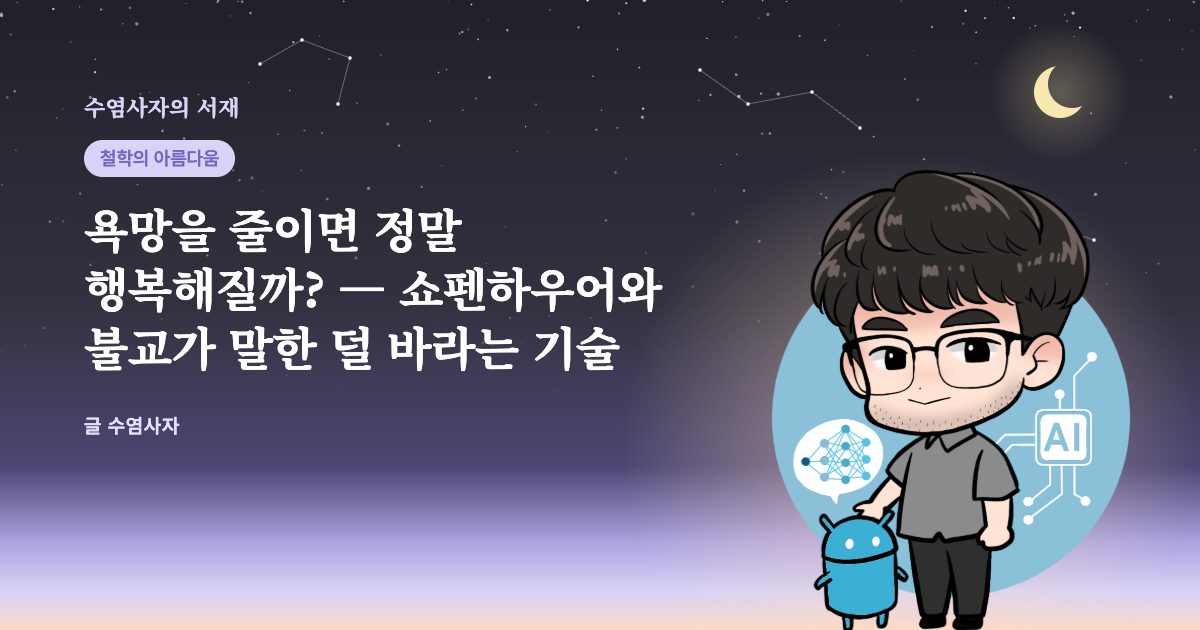
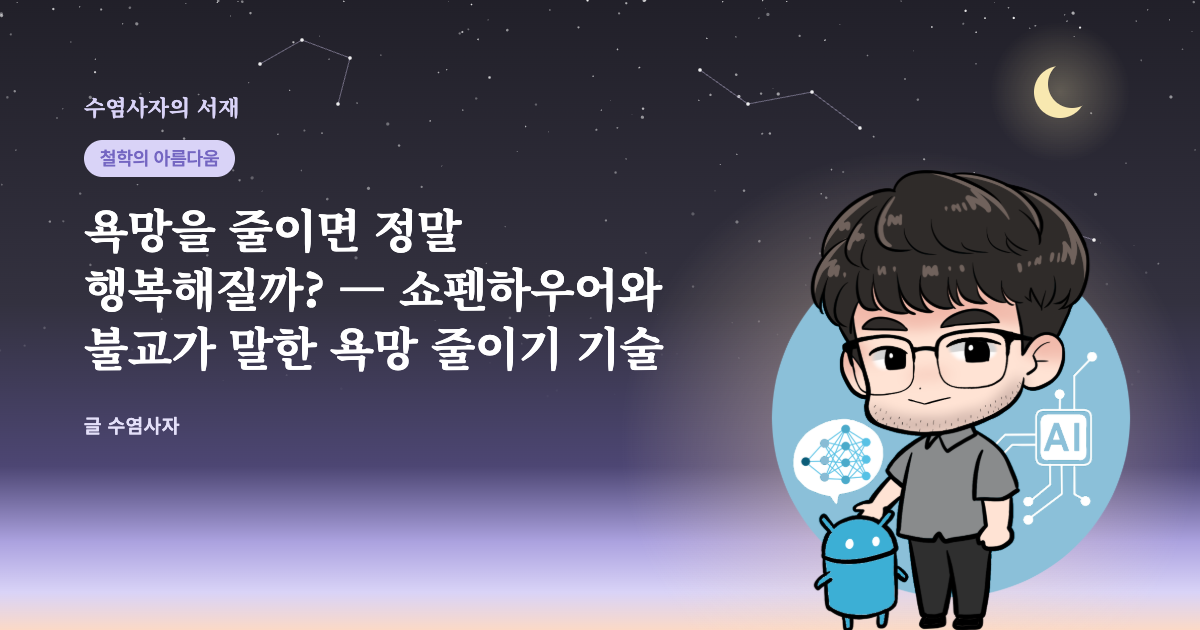
post: 쇼펜하우어 글 — 사용자 문장 다듬기와 제목 변경, 오타 교정
Claude-Session: https://claude.ai/code/session_01J36DQQsi1iZDy94NMGj8jH

Changed region(s): [[0.2775, 0.5127, 0.555, 0.6032]]

diff --git a/posts/schopenhauer-desire/post.html b/posts/schopenhauer-desire/post.html
@@ -52,18 +52,18 @@
 </head>
 <body>
 <article>
-<h1>욕망을 줄이면 정말 행복해질까? — 쇼펜하우어와 불교가 말한 덜 바라는 기술</h1>
+<h1>욕망을 줄이면 정말 행복해질까? — 쇼펜하우어와 불교가 말한 욕망 줄이기 기술</h1>
 <div class="meta">2026-11-07 · 약 10분 분량 · 글 수염사자</div>
 
 <!-- 1. 도입 -->
-<p>몇 달을 벼르던 물건이 드디어 집에 도착합니다. 상자를 뜯는 날은 기분이 좋습니다. 그런데 두어 주가 지나면 그 물건은 그냥 집에 있는 물건 가운데 하나가 됩니다. 그리고 어느 저녁, 다른 것을 검색하고 있는 자신을 발견합니다. 승진도, 이사도, 오래 바라던 합격도 비슷합니다. 기쁨은 분명히 있었는데 생각보다 빨리 식고, 그 자리에 다음 목표가 들어섭니다.</p>
-<p>이 경험에는 오래전부터 두 가지 답이 있었습니다. 하나는 "그러니 더 큰 것을 바라라"이고, 다른 하나는 "그러니 덜 바라라"입니다. 19세기 독일의 철학자 쇼펜하우어와 초기 불교 경전은 둘째 답을 골랐습니다. 그런데 결정적으로 — <strong>두 전통은 "얻어도 만족이 오지 않는다"는 진단에서 거의 같은 문장을 썼지만, 덜 바라는 일이 무엇을 치르게 하는지는 아주 다르게 말했습니다.</strong></p>
-<p>"욕심을 줄이면 행복해진다"는 말을 들을 때마다 반쯤 수긍하고 반쯤 미심쩍었던 분들께 결론부터 말씀드리면, 그 말은 절반은 원문으로 확인되고, 절반은 최근 연구가 조건을 달았습니다. 철학에서는 이 문제를 쇼펜하우어의 <strong>의지(Wille)</strong>와 불교의 <strong>갈애(渴愛)</strong>라는 이름으로 다룹니다.</p>
+<p>몇 달을 벼르던 물건이 드디어 집에 도착합니다. 택배를 뜯는 날은 일단 기분이 좋습니다. 그런데 1~2주가 지나면 그 물건은 그냥 집에 있는 물건 중 하나가 되죠. 그러다 어느새, 또 새 아이템을 검색하고 있는 자신을 발견합니다. 승진도, 이사도, 오래 바라던 합격도 비슷합니다. 분명히 즐거움이 있었는데 생각보다 빨리 사그라들고, 곧 다른 즐거움을 찾게 됩니다.</p>
+<p>이 경험에는 오래전부터 두 가지 해결책이 있었습니다. 하나는 "더 큰 것을 바랄 것"이고, 다른 하나는 "덜 바랄 것"입니다. 19세기 독일의 철학자 쇼펜하우어와 초기 불교 경전은 둘째 답을 골랐습니다. 그런데 결정적으로 <strong>"얻어도 만족이 오지 않는다"는 생각은 똑같지만, 덜 바라는 일이 무엇을 대가로 치르게 하는지는 차이가 있습니다.</strong></p>
+<p>"욕심을 줄이면 행복해진다"는 말을 들을 때마다 반쯤 수긍하고 반쯤 미심쩍었던 분들께 고전과 최신 연구로 답을 드리고자 합니다. 우선, 철학에서는 이 문제를 쇼펜하우어의 <strong>의지(Wille)</strong>와 불교의 <strong>갈애(渴愛)</strong>라는 이름으로 다룹니다.</p>
 
 <!-- 2. 쇼펜하우어의 진단 -->
 <h2>원해서 얻었는데 왜 허전한가 — 진자와 밑 빠진 체</h2>
-<p>아르투어 쇼펜하우어(1788~1860)는 서른 살에 완성한 『의지와 표상으로서의 세계』에서 이 허전함을 하나의 구조로 그렸습니다. 그가 보기에 모든 원함은 결핍에서 나옵니다. 무언가가 없어서, 모자라서, 그래서 괴로워서 원합니다. 원문은 이렇게 말합니다. "모든 의욕은 결핍에서, 따라서 모자람에서, 따라서 고통에서 생겨난다"<sup class="fn"><a id="cite-1" href="#ref-1">[1]</a></sup>. 이 책은 1818년 3월에 완성되어 그해 12월에 출간됐습니다<sup class="fn"><a id="cite-2" href="#ref-2">[2]</a></sup>.</p>
-<p>그런데 얻으면 끝나야 할 고통이 끝나지 않습니다. 쇼펜하우어는 그 이유를 두 가지로 댑니다. 첫째, 채워진 소원은 곧바로 새 소원에게 자리를 내줍니다. 어떤 대상도 지속되는 만족을 주지 못하고, 거지에게 던져진 동냥처럼 오늘 하루를 버티게 해서 내일의 비참을 연장할 뿐이라는 것입니다<sup class="fn"><a id="cite-1b" href="#ref-1">[1]</a></sup>. 둘째가 더 무섭습니다. 원하는 것이 너무 쉽게 채워져 원할 것이 없어지면, 그 자리에 공허와 지루함이 들어옵니다. 그래서 삶은 "고통과 권태 사이를 진자처럼 왔다 갔다" 합니다<sup class="fn"><a id="cite-1c" href="#ref-1">[1]</a></sup>.</p>
+<p>아르투어 쇼펜하우어(1788~1860)는 그가 서른 살에 완성한 위대한 작품, 『의지와 표상으로서의 세계』에서 이 허전함을 하나의 틀로 나타냈습니다. 그가 보기에 모든 원함은 결핍에서 나옵니다. 무언가가 없어서, 모자라서, 그래서 괴로워서 원합니다. 그는 이렇게 말합니다. "모든 의욕은 결핍에서, 따라서 모자람에서, 따라서 고통에서 생겨난다"<sup class="fn"><a id="cite-1" href="#ref-1">[1]</a></sup>. (참고로 이 책은 1818년 3월에 완성되어 그해 12월에 출간됐습니다<sup class="fn"><a id="cite-2" href="#ref-2">[2]</a></sup>.)</p>
+<p>그런데 말입니다, 얻으면 끝나야 할 고통이 여전히 끝나지 않습니다. 쇼펜하우어는 그 이유를 두 가지로 봅니다. 첫째, 소원을 이뤄도 곧바로 새 소원이 생깁니다. 어떤 대상도 지속되는 만족을 주지 못하고, 거지에게 던져진 동냥처럼 오늘 하루를 버티게 해서 내일의 비참을 연장할 뿐이라는 것입니다<sup class="fn"><a id="cite-1b" href="#ref-1">[1]</a></sup>. 둘째는 더 통렬합니다. 원하는 것이 너무 쉽게 채워져 더 바랄 것이 없어지면, 공허와 지루함이 치고 들어옵니다. 그래서 삶은 "고통과 권태 사이를 진자처럼 왔다 갔다" 합니다<sup class="fn"><a id="cite-1c" href="#ref-1">[1]</a></sup>.</p>
 <figure>
 <svg xmlns="http://www.w3.org/2000/svg" viewBox="0 0 680 440" width="100%" role="img" aria-labelledby="t-1 d-1" font-family="'Pretendard','Noto Sans KR','Noto Sans CJK KR','Apple SD Gothic Neo',sans-serif">
 <title id="t-1">쇼펜하우어가 본 욕망의 순환</title>
@@ -90,21 +90,21 @@
 <text x="562" y="388" text-anchor="middle" font-size="17" font-weight="700" fill="#C06A45">권태</text>
 <text x="32" y="424" font-size="12" fill="#6E6B7B">자료: 『의지와 표상으로서의 세계』 1권 §38·§57[1]로 재구성</text>
 </svg>
-<figcaption>쇼펜하우어가 본 욕망은 원하고, 애쓰고, 얻고, 식어서 다시 원하는 고리이며, 원할 것이 없어지는 순간에는 고리 밖의 권태로 빠집니다. 고리에는 마지막 칸이 없습니다.</figcaption>
+<figcaption>쇼펜하우어가 본 욕망은 원하고, 애쓰고, 얻고, 식어서 다시 원하는 순환 고리이며, 원할 것이 없어지는 순간에는 고리 밖의 권태로 빠집니다.</figcaption>
 </figure>
 <p>그는 이 순환을 그리스 신화의 다나이데스에 빗댑니다. 밑 빠진 체로 물을 긷는 자매들처럼, 우리는 만족이 매번 기대를 저버리는 것을 보면서도 서둘러 다음 욕망으로 달려간다는 것입니다<sup class="fn"><a id="cite-1d" href="#ref-1">[1]</a></sup>. 여기서 그의 유명한 결론이 나옵니다. 행복은 적극적인 무엇이 아니라 소극적인 것, 곧 어떤 고통이나 결핍에서 잠시 풀려난 상태일 뿐이며, 그 뒤에는 새 고통 아니면 권태가 따라온다는 것입니다<sup class="fn"><a id="cite-1e" href="#ref-1">[1]</a></sup>.</p>
 <div class="key"><span class="label">핵심 —</span> 쇼펜하우어에게 욕망은 나쁜 것이 아니라 맹목적인 것입니다. 목적지가 없기 때문에 어디에 도착해도 멈추지 않습니다. 그래서 욕망을 하나씩 채우는 방식으로는 순환이 끝나지 않는다는 것이 그의 진단입니다.</div>
 
 <!-- 3. 불교의 진단 -->
 <h2>2천 년 앞서 인도에서 나온 같은 진단</h2>
-<p>이 진단은 쇼펜하우어가 처음 한 말이 아닙니다. 그 자신도 알고 있었습니다. 스탠퍼드 철학 백과는 도서관 대출 기록을 근거로, 그가 대표작을 완성하기 전인 1813년 12월부터 『바가바드기타』를, 1814년 3월부터 『우파니샤드』를 읽기 시작했다고 적습니다<sup class="fn"><a id="cite-2b" href="#ref-2">[2]</a></sup>. 인도 사상은 그에게 확인이자 자극이었습니다.</p>
-<p>초기 불교 경전은 같은 구조를 식물로 그립니다. 『법구경』 갈애품은 방일하게 사는 이의 갈애는 "덩굴처럼 자란다"고 하고, 그 끈적이는 갈애에 지는 사람에게는 "비 온 뒤 풀처럼 슬픔이 자란다"고 말합니다<sup class="fn"><a id="cite-3" href="#ref-3">[3]</a></sup>. 덩굴은 누가 심어서 자라는 것이 아닙니다. 두면 자랍니다. 쇼펜하우어가 '맹목'이라 부른 성질과 같은 자리를 짚는 비유입니다. 경전은 한 구절 더 나아갑니다. 베어도 뿌리가 남은 나무는 다시 돋아나듯, 잠재된 갈애를 뿌리째 뽑기 전에는 괴로움이 거듭 솟는다는 것입니다<sup class="fn"><a id="cite-3b" href="#ref-3">[3]</a></sup>. 가지를 치는 일, 곧 욕망을 하나씩 채우는 일로는 끝나지 않는다는 점에서 쇼펜하우어의 체와 정확히 포개집니다.</p>
-<p>『숫타니파타』는 한 발 더 나가 만족 자체를 문제 삼습니다. 소 치는 다니야의 이야기에서 마라는 "자식 있는 이는 자식으로 기뻐하고, 소 있는 이는 소로 기뻐한다"고 노래하고, 붓다는 같은 운율로 되받습니다.</p>
+<p>이 진단은 쇼펜하우어가 처음 한 말이 아닙니다. 그 자신도 알고 있었습니다. 스탠퍼드 철학 백과는 도서관 대출 기록을 근거로, 그가 대표작을 완성하기 전인 1813년 12월부터 『바가바드기타』를, 1814년 3월부터 『우파니샤드』를 읽기 시작했다고 적습니다<sup class="fn"><a id="cite-2b" href="#ref-2">[2]</a></sup>. 인도 사상은 그에게 신선한 자극이었습니다.</p>
+<p>초기 불교 경전은 같은 내용을 식물에 비유합니다. 『법구경』 갈애품은 방일하게 사는 이의 갈애는 "덩굴처럼 자란다"고 하고, 그 끈적이는 갈애에 지는 사람에게는 "비 온 뒤 풀처럼 슬픔이 자란다"고 말합니다<sup class="fn"><a id="cite-3" href="#ref-3">[3]</a></sup>. 덩굴은 누가 심어서 자라는 것이 아닙니다. 두면 자랍니다. 쇼펜하우어가 '맹목'이라 부른 것과 같은 비유입니다. 경전은 한 단계 더 나아갑니다. 베어도 뿌리가 남은 나무는 다시 돋아나듯, 잠재된 갈애를 뿌리째 뽑기 전에는 괴로움이 거듭 솟는다는 것입니다<sup class="fn"><a id="cite-3b" href="#ref-3">[3]</a></sup>. 가지를 치는 일, 곧 욕망을 하나씩 채우는 일로는 끝나지 않는다는 점에서 쇼펜하우어와 같지요.</p>
+<p>『숫타니파타』는 한 발 더 나가 만족 자체를 문제 삼습니다. 소 치는 다니야의 이야기에서 마라는 "자식 있는 이는 자식으로 기뻐하고, 소 있는 이는 소로 기뻐한다"고 노래하고, 붓다는 이를 이어받습니다.</p>
 <blockquote class="quote">
   <p>자식 있는 이는 자식으로 슬퍼하고, 소 있는 이는 소로 슬퍼한다. 사람의 슬픔은 가진 것에서 오니, 가진 것이 없는 이는 슬퍼할 것도 없다.</p>
   <cite>— 『숫타니파타』 1.2 다니야경, Thanissaro Bhikkhu 영역에서 (번역)<sup class="fn"><a id="cite-4" href="#ref-4">[4]</a></sup></cite>
 </blockquote>
-<p>쇼펜하우어에게 고통은 만족의 실패에서 왔지만, 여기서는 성공한 만족조차 잃을 것을 하나 더 만든 일이 됩니다. 그래서 다른 경에서는 "남들이 즐거움이라 하는 것을 성자들은 괴로움이라 하고, 남들이 괴로움이라 하는 것을 성자들은 즐거움이라 안다"는 뒤집기까지 갑니다<sup class="fn"><a id="cite-5" href="#ref-5">[5]</a></sup>.</p>
+<p>쇼펜하우어에게 고통은 만족의 실패에서 왔지만, 여기서는 성공한 만족조차 잃을 것을 하나 더 만든 일이 됩니다. 그래서 다른 경에서는 "남들이 즐거움이라 하는 것을 성자들은 괴로움이라 하고, 남들이 괴로움이라 하는 것을 성자들은 즐거움이라 안다"는 역설로 승화시키기까지 합니다<sup class="fn"><a id="cite-5" href="#ref-5">[5]</a></sup>.</p>
 <figure>
 <svg xmlns="http://www.w3.org/2000/svg" viewBox="0 0 680 400" width="100%" role="img" aria-labelledby="t-2 d-2" font-family="'Pretendard','Noto Sans KR','Noto Sans CJK KR','Apple SD Gothic Neo',sans-serif">
 <title id="t-2">쇼펜하우어와 초기 불교, 같은 진단과 다른 처방</title>
@@ -136,15 +136,15 @@
 </figure>
 
 <!-- 4. 처방 -->
-<h2>두 전통이 내놓은 '덜 바라는 기술'</h2>
-<p>진단이 같으니 처방도 닮았습니다. 둘 다 덜 바라라고 합니다. 다만 안을 들여다보면 결이 다릅니다.</p>
-<p>쇼펜하우어 쪽에는 층이 있습니다. 가장 낮은 층은 생활의 기술입니다. 후기 에세이 『삶의 지혜』에서 그는 만족이 바라는 것과 얻는 것 사이의 비율에 달려 있다고 보고, 한 사람의 행복을 얻는 것만으로 재지 말고 기대하는 것까지 함께 재야 한다고 씁니다<sup class="fn"><a id="cite-6" href="#ref-6">[6]</a></sup>. 분자를 키우기 어렵다면 분모를 줄이라는 셈법입니다. 같은 장에 "재물은 바닷물과 같아서 마실수록 목이 마르고, 명성도 마찬가지"라는 문장이 있습니다<sup class="fn"><a id="cite-6b" href="#ref-6">[6]</a></sup>. 그 위층은 미적 관조입니다. 음악이나 풍경에 빠져 잠시 '나'를 잊는 순간 의지가 멈추는데, 그는 이것이 순간에만 가능하고 삶 전체를 채울 수는 없다고 못 박습니다<sup class="fn"><a id="cite-1f" href="#ref-1">[1]</a></sup>. 가장 높은 층은 연민과 금욕입니다. 타인이 나와 같은 본성을 가졌음을 알아보는 데서 도덕이 시작되고, 끝에 가면 의지 자체를 부정하는 자발적 가난과 정결에 이른다는 것입니다<sup class="fn"><a id="cite-2c" href="#ref-2">[2]</a></sup>.</p>
-<p>불교 쪽의 처방은 가지치기가 아니라 뿌리를 향합니다. 『법구경』은 "덩굴이 돋은 것을 보거든 지혜로 그 뿌리를 끊으라"고 하고, 갈애를 이긴 이에게서는 "연잎에서 물이 굴러떨어지듯" 슬픔이 떨어진다고 말합니다<sup class="fn"><a id="cite-3c" href="#ref-3">[3]</a></sup>. 여기서 덜 바란다는 것은 소원 목록을 줄이는 일이 아니라, 바라는 마음이 어떻게 생겨나 어디에 달라붙는지를 보는 일입니다.</p>
-<p>비유하자면 쇼펜하우어의 낮은 층은 수도꼭지를 잠그는 기술이고, 불교의 처방은 수압이 어디서 오는지 보는 기술입니다. 둘 다 물을 덜 쓰게 하지만, 손이 가는 자리가 다릅니다.</p>
+<h2>두 철학이 내놓은 답, '덜 바라는 기술'</h2>
+<p>두 철학의 진단이 같으니 처방도 유사합니다. 둘 다 덜 바라라고 합니다. 다만 안을 들여다보면 결이 좀 다릅니다.</p>
+<p>쇼펜하우어 쪽에는 층이 있습니다. 가장 낮은 층은 생활의 기술입니다. 후기 에세이 『삶의 지혜』에서 그는 만족이 바라는 것과 얻는 것 사이의 비율에 달려 있다고 보고, 한 사람의 행복을 얻는 것만으로 재지 말고 기대하는 것까지 함께 측정해야 한다고 씁니다<sup class="fn"><a id="cite-6" href="#ref-6">[6]</a></sup>. 분자를 키우기 어렵다면 분모를 줄이라는 셈법입니다. 같은 장에 "재물은 바닷물과 같아서 마실수록 목이 마르고, 명성도 마찬가지"라는 문장이 있습니다<sup class="fn"><a id="cite-6b" href="#ref-6">[6]</a></sup>. 그 위층은 미적 관조입니다. 음악이나 풍경에 빠져 잠시 '나'를 잊는 순간 의지가 멈추는데, 그는 이것이 순간에만 가능하고 삶 전체를 채울 수는 없다고 못 박습니다<sup class="fn"><a id="cite-1f" href="#ref-1">[1]</a></sup>. 가장 높은 층은 연민과 금욕입니다. 타인이 나와 같은 본성을 가졌음을 인지하는 것에서 도덕이 시작되고, 끝에 가면 의지 자체를 부정하는 자발적 가난과 정결에 도달한다는 것입니다<sup class="fn"><a id="cite-2c" href="#ref-2">[2]</a></sup>.</p>
+<p>불교 쪽의 처방은 가지치기가 아니라 뿌리를 향합니다. 『법구경』은 "덩굴이 돋은 것을 보거든 지혜로 그 뿌리를 끊으라"고 하고, 갈애를 이긴 이에게서는 "연잎에서 물이 굴러떨어지듯" 슬픔이 떨어진다고 말합니다<sup class="fn"><a id="cite-3c" href="#ref-3">[3]</a></sup>. 여기서 덜 바란다는 것은 소원의 개수를 줄이는 일이 아니라, 바라는 마음이 어떻게 생겨나 어디에 가는지를 보는 일입니다.</p>
+<p>비유하자면 쇼펜하우어는 수도꼭지를 잠그는 기술이고, 불교의 처방은 수압이 어디서 발생하는지를 보는 기술입니다.</p>
 
 <!-- 5. 숫자 -->
-<h2>숫자로 보면 — '얻어도 곧 식는다'는 어디까지 맞나</h2>
-<p>얻어도 곧 식는다는 진단은 20세기 심리학이 복권 당첨자를 찾아가 재어 보았습니다. 1978년 미국에서 5만 달러 이상에 당첨된 22명과 같은 동네의 비당첨자, 그리고 사고로 하반신 또는 전신이 마비된 29명에게 지금 얼마나 행복한지를 0~5점으로 물은 연구가 있습니다<sup class="fn"><a id="cite-7" href="#ref-7">[7]</a></sup>. 당첨자의 현재 행복은 4.00점으로 비교집단의 3.82점과 거의 차이가 없었고, 식사나 대화 같은 일상의 즐거움은 오히려 당첨자가 3.33점으로 비교집단의 3.82점보다 낮았습니다. 사고 피해자의 현재 행복은 2.96점으로 분명히 낮았지만, 흔히 예상하는 만큼 바닥은 아니었습니다<sup class="fn"><a id="cite-8" href="#ref-8">[8]</a></sup>.</p>
+<h2>'욕망은 금방 식어 버린다'는 어디까지 맞나</h2>
+<p>1978년 미국에서 5만 달러 이상에 당첨된 22명과 같은 동네의 비당첨자, 그리고 사고로 하반신 또는 전신이 마비된 29명에게 지금 얼마나 행복한지를 0~5점으로 물은 연구가 있습니다<sup class="fn"><a id="cite-7" href="#ref-7">[7]</a></sup>. 당첨자의 현재 행복은 4.00점으로 비교집단의 3.82점과 거의 차이가 없었고, 식사나 대화 같은 일상의 즐거움은 오히려 당첨자가 3.33점으로 비교집단의 3.82점보다 낮았습니다. 사고 피해자의 현재 행복은 2.96점으로 분명히 낮았지만, 흔히 예상하는 만큼 바닥은 아니었습니다<sup class="fn"><a id="cite-8" href="#ref-8">[8]</a></sup>.</p>
 <figure>
 <svg xmlns="http://www.w3.org/2000/svg" viewBox="0 0 680 420" width="100%" role="img" aria-labelledby="t-3 d-3" font-family="'Pretendard','Noto Sans KR','Noto Sans CJK KR','Apple SD Gothic Neo',sans-serif">
 <title id="t-3">복권 당첨자·비당첨자·사고 피해자의 행복 점수</title>
@@ -170,14 +170,14 @@
 </svg>
 <figcaption>복권에 당첨된 지 1년 안의 사람들은 현재 행복이 4.00점으로 이웃 비교집단의 3.82점과 거의 같았고, 일상의 즐거움은 3.33점으로 오히려 낮았으며, 사고로 마비된 사람들의 현재 행복은 2.96점이었습니다.</figcaption>
 </figure>
-<p>여기까지만 보면 쇼펜하우어의 손을 들어 주고 싶어집니다. 그런데 더 큰 자료가 다른 말을 합니다. 스웨덴의 복권 참가자들을 당첨 5~22년 뒤에 추적한 2020년 연구는, 고액 당첨자가 비교집단보다 삶 전반의 만족을 지속적으로 높게 보고했고 그 효과가 10년이 지나도 뚜렷이 줄지 않았다고 보고합니다. 다만 행복감과 정신건강에 미친 효과는 그보다 유의하게 작았습니다<sup class="fn"><a id="cite-9" href="#ref-9">[9]</a></sup>.</p>
+<p>여기까지만 보면 쇼펜하우어의 손을 들어 주고 싶어집니다. 하지만, 또 다른 자료도 있습니다. 스웨덴의 복권 참가자들을 당첨 5~22년 뒤에 추적한 2020년 연구는, 고액 당첨자가 비교집단보다 삶 전반의 만족을 지속적으로 높게 보고했고 그 효과가 10년이 지나도 뚜렷이 줄지 않았다고 보고합니다. 다만 행복감과 정신건강에 미친 효과는 그보다 유의하게 작았습니다<sup class="fn"><a id="cite-9" href="#ref-9">[9]</a></sup>.</p>
 <div class="key"><span class="label">핵심 —</span> 두 연구에서 읽어야 할 것은 어느 쪽이 이겼느냐가 아닙니다. 쇼펜하우어의 진단은 얻는 순간의 기쁨에 대해서는 잘 들어맞고, 삶을 돌아본 평가에 대해서는 절반만 맞습니다. 덜 바라기가 효과를 내는 자리와 내지 못하는 자리가 갈린다는 뜻입니다.</div>
-<p>다만 근거의 강도를 말씀드려야 합니다. 1978년 연구는 집단마다 수십 명뿐이고 한 번 물은 것이라, 오늘 기준으로는 작은 연구입니다. 2020년 연구는 규모가 크고 분석 계획을 미리 등록했지만, 복권이라는 특수한 사건 하나를 다룹니다. 두 연구 모두 욕망을 줄이면 행복해지는가를 직접 시험한 것이 아니라, 얻으면 행복이 오래가는가를 잰 것이라는 점도 기억해 둘 필요가 있습니다.</p>
+<p>다만 근거의 강도를 말씀드려야 합니다. 1978년 연구는 집단마다 수십 명뿐이고 한 번 물은 것이라, 오늘 기준으로는 스몰 데이터입니다. 2020년 연구는 규모가 크고 분석 계획을 미리 등록했지만, 복권이라는 특수한 사건 하나를 다룹니다. 두 연구 모두 욕망을 줄이면 행복해지는가를 직접 시험한 것이 아니라, 얻으면 행복이 오래가는가를 연구한 것임을 염두에 둘 필요가 있습니다.</p>
 
 <!-- 6. 니체의 반론 -->
-<h2>덜 바라기의 비용 — 가장 열렬한 독자의 반론</h2>
-<p>미리 말씀드려야 할 게 있습니다. 덜 바라는 기술에는 비용이 있습니다. 그것을 가장 날카롭게 짚은 사람이 쇼펜하우어의 가장 열렬한 독자였던 니체입니다. 젊은 날 쇼펜하우어에 심취해 그에 관한 글까지 썼던 니체는 뒤에 방향을 바꿉니다<sup class="fn"><a id="cite-10" href="#ref-10">[10]</a></sup>. 『차라투스트라는 이렇게 말했다』 서설에서 그는 "형제들이여, 대지에 충실하라. 하늘 너머의 희망을 말하는 자들을 믿지 말라"고 외치고, 1부의 「몸을 경멸하는 자들에 대하여」에서는 "나는 전적으로 몸이며 그 밖의 아무것도 아니다"라고 선언합니다. 몸과 욕망을 낮춰 보는 자들은 "나를 초인으로 이어 줄 다리가 아니"라는 것입니다<sup class="fn"><a id="cite-11" href="#ref-11">[11]</a></sup>.</p>
-<p>『도덕의 계보』 셋째 논문에서 니체는 금욕이라는 이상을 해부하는데, 스탠퍼드 철학 백과는 그 표적에 종교의 금욕만이 아니라 쇼펜하우어 윤리학이 취한 더 합리적인 형태의 금욕까지 들어 있다고 정리합니다. 니체의 근본 반론은 금욕이 심리적으로 파괴적이고 실천적으로 자기 패배적이라는 것, 곧 고통을 줄이려는 본능적인 자가 치료인데 결국 삶 자체를 깎아 낸다는 것입니다<sup class="fn"><a id="cite-10b" href="#ref-10">[10]</a></sup>. 그가 내놓은 대안은 욕망을 놓는 것이 아니라 삶을 긍정하는 것, 자기 운명을 사랑하라는 아모르 파티였습니다<sup class="fn"><a id="cite-10c" href="#ref-10">[10]</a></sup>.</p>
+<h2>덜 바라기의 비용 — 쇼펜하우어의 가장 열렬한 독자의 반론</h2>
+<p>덜 바라는 기술에는 비용이 있습니다. 그것을 가장 날카롭게 짚은 사람이 쇼펜하우어의 가장 열렬한 독자였던 니체입니다. 젊은 날 쇼펜하우어에 심취해 그에 관한 글까지 썼던 니체는 훗날 방향을 바꿉니다<sup class="fn"><a id="cite-10" href="#ref-10">[10]</a></sup>. 『차라투스트라는 이렇게 말했다』에서 그는 "형제들이여, 대지에 충실하라. 하늘 너머의 희망을 말하는 자들을 믿지 말라"고 외치고, 1부의 「몸을 경멸하는 자들에 대하여」에서는 "나는 전적으로 몸이며 그 밖의 아무것도 아니다"라고 선언합니다. 몸과 욕망을 낮춰 보는 자들은 "나를 초인으로 이어 줄 다리가 아니"라는 것입니다<sup class="fn"><a id="cite-11" href="#ref-11">[11]</a></sup>.</p>
+<p>『도덕의 계보』 셋째 논문에서 니체는 금욕이라는 이상을 해부하는데, 스탠퍼드 철학 백과는 그 표적에 종교의 금욕만이 아니라 쇼펜하우어 윤리학이 취한 더 합리적인 형태의 금욕까지 들어 있다고 정리합니다. 니체의 근본 반론은 금욕이 심리적으로 파괴적이고 실천적으로 자기 패배적이라는 것, 곧 고통을 줄이려는 본능적인 자가 치료인데 결국 삶 자체를 깎아 낸다는 것입니다<sup class="fn"><a id="cite-10b" href="#ref-10">[10]</a></sup>. 그가 내놓은 대안은 욕망을 놓는 것이 아니라 삶을 긍정하는 것, 자기 운명을 사랑하라는 '아모르 파티(운명애)'였습니다<sup class="fn"><a id="cite-10c" href="#ref-10">[10]</a></sup>.</p>
 <p>이 반론을 받아들이면 질문이 바뀝니다. 얼마나 덜 바랄 것인가가 아니라, 무엇을 덜 바라고 무엇을 더 바랄 것인가가 됩니다. 쇼펜하우어의 분모 줄이기는 그 자체로 답이 아니라, 분자에 무엇을 올릴지 정하기 전의 정리 작업에 가깝습니다.</p>
 <div class="caution">한 가지 더. 아무것도 바라지 않게 되는 상태가 두 주 넘게 거의 매일 이어지고, 잠과 식욕과 기력까지 함께 흔들린다면, 그것은 철학이 권한 초연이 아니라 우울 삽화의 신호일 수 있습니다. 세계보건기구는 흥미와 즐거움의 상실이 적어도 2주 동안 거의 매일 지속되는 것을 우울 삽화의 핵심 특징으로 적습니다<sup class="fn"><a id="cite-12" href="#ref-12">[12]</a></sup>. 그럴 때는 책이 아니라 정신건강 전문가와 먼저 상의하시기 바랍니다.</div>
 
@@ -185,9 +185,9 @@
 <section class="expert-note">
   <h2>필자 한마디</h2>
   <blockquote>
-    <p>욕심을 버리라는 말을 들을 때마다 어딘가 찜찜했다면, 그 감각은 맞습니다. 그 말은 쇼펜하우어의 진단을 반쯤 잘라 온 것이고, 니체의 반론은 아예 빼고 온 것입니다.</p>
-    <p><strong>"덜 바라기는 목적지가 아니라 정리 작업입니다."</strong> 바닷물을 그만 마시는 일은 필요합니다. 그러나 그다음에 무엇을 마실지는 금욕이 정해 주지 않습니다.</p>
-    <p>원하던 것이 도착하고 두 주가 지난 저녁, 다음 검색창을 열기 전에 한 번만 멈춰 보셔도 좋겠습니다. 지금 이 허전함은 물건이 모자라서 온 것인지, 체가 원래 그렇게 생겨서 온 것인지.</p>
+    <p>욕심을 버리라는 말을 들을 때마다 어딘가 찜찜했다면, 그 직관은 잘못된 것이 아닙니다. 그 말은 쇼펜하우어의 진단의 절반만 해당하고, 니체의 반론은 아예 빠뜨려버린 이야기입니다.</p>
+    <p><strong>"덜 바라기는 목적지가 아니라 정리 작업입니다."</strong> 바닷물을 그만 마시는 일은 필요합니다. 그러나 그다음에 무엇을 마실지는 금욕만으로는 해결하기 어렵습니다.</p>
+    <p>원하던 것이 도착하고 2주가 지난 저녁, 인터넷 쇼핑을 하기 전에 한 번 생각해보세요. 지금 욕망은 정말 그 물건이 꼭 필요해서 생긴 걸까요?</p>
   </blockquote>
 </section>
 
@@ -197,7 +197,7 @@
 <p>오늘 무언가를 장바구니에 넣기 전에 한 가지만 물어보세요. 이것은 분모를 키우는 욕망인가, 분자에 올릴 만한 욕망인가.</p>
 
 <!-- 11. 꼬리 -->
-<p class="disclaimer">이 글은 일반적인 정보 제공을 위한 것입니다. 인용한 원문은 영어 번역본에서 옮긴 것이라 국역본과 표현이 다를 수 있습니다. 기분이나 의욕의 저하가 이어진다면 이 글로 개인의 진단과 치료를 대신하지 말고 정신건강 전문가와 상의하시기 바랍니다.</p>
+<p class="disclaimer">이 글은 일반적인 정보 제공을 위한 것입니다. 인용한 원문은 영어 번역본에서 옮긴 것이라 국역본과 표현이 다를 수 있습니다.</p>
 
 <section class="refs">
   <h3>참고문헌</h3>
